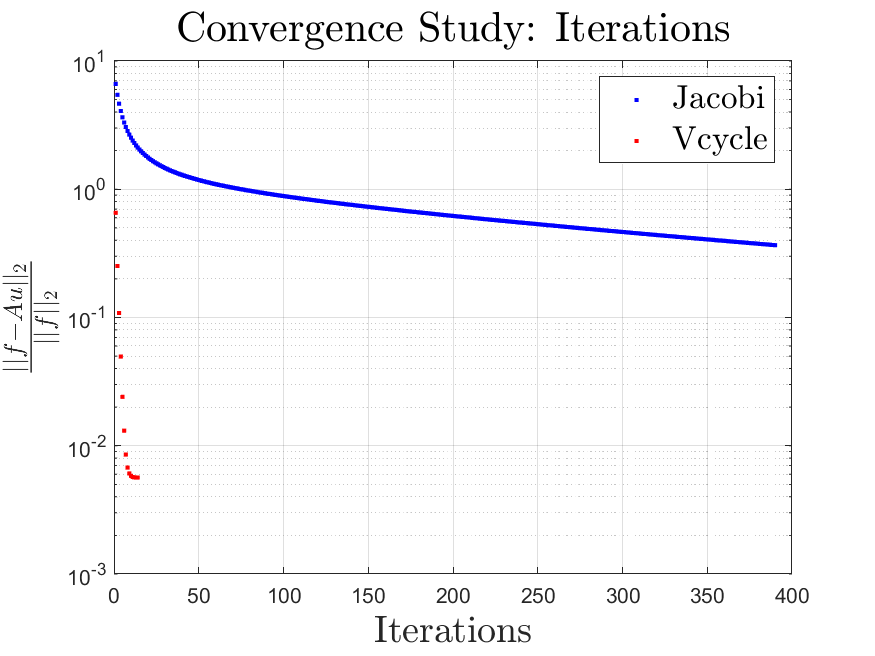
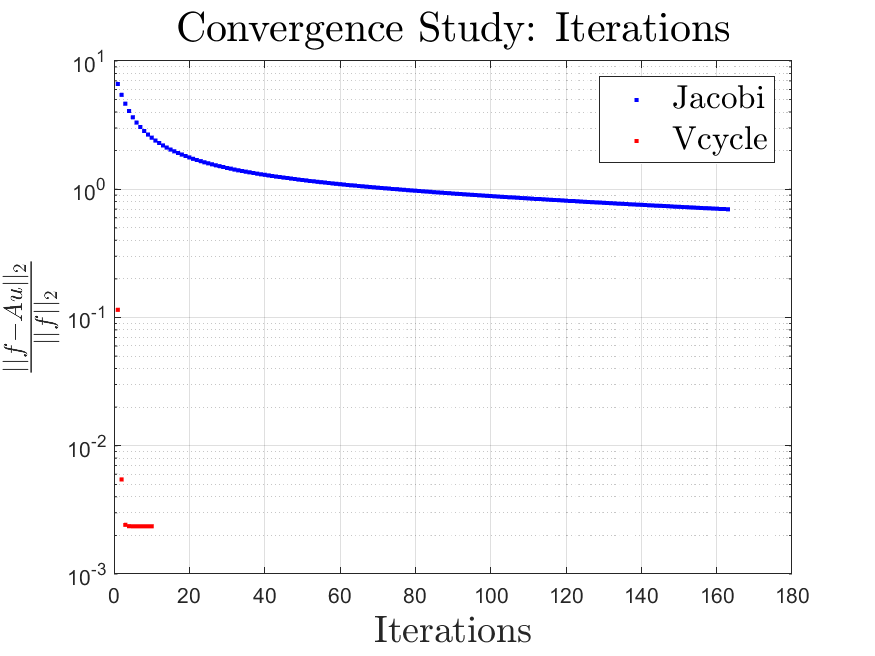
Improved matlab drivers

diff --git a/matlab/mixed_3d/driver.m b/matlab/mixed_3d/driver.m
@@ -7,8 +7,6 @@
 % dimension. This is only for easing the implementation of the
 % interpolation and restriction operations.
 %
-% Dirichlet boundary conditions are imposed on all boundary surfaces.
-%
 % Author: Anton Rydahl
 % Richard Petersens Plads, bygn. 324 2800 Kgs. Lyngby
 % email: rydahlanton@gmail.com
@@ -16,22 +14,8 @@
 
 clear all; close all; clc;
 %%
-% Frequencies for test function
-kx = 3;
-ky = 2;
-kz = 3.56;
-
-% Test function
-ufun = @(x,y,z)(sin(kx*x).*sin(ky*y).*sin(kz*z));
-
-% x derivative
-dxfun = @(x,y,z)(kx*cos(kx*x).*sin(ky*y).*sin(kz*z));
-
-% y derivative
-dyfun = @(x,y,z)(ky*sin(kx*x).*cos(ky*y).*sin(kz*z));
-
-% Laplacian of the test function
-ffun = @(x,y,z)(-(kx^2+ky^2+kz^2)*sin(kx*x).*sin(ky*y).*sin(kz*z));
+% Test problem
+[ufun,ffun,dxfun,dyfun] = problem_definition();
 
 % Domain offsets from origo
 x0 = -0.71;
@@ -48,74 +32,40 @@ l = 5;
 n = [5, 5, 5];
 assert(sum(mod(n,2) == 1) == 3,"Number of elements on coarsest grid must be odd")
 
-% number of cells in each dimension
-N = 2^l*(n-1)+1;
-
 % Number of smoothings per grids
 nsmooth = 20;
 
 % Maximal number of iterations
 max_iter = 2000;
-max_time = 60; % seconds
+max_time = 20; % seconds
 
 % Tolerance
 tol = 100*eps;
 
-% Axes
-x = linspace(x0,x0+len,N(1));
-y = linspace(y0,y0+len*(N(2)-1)/(N(1)-1),N(2));
-z = linspace(z0,z0+len*(N(3)-1)/(N(1)-1),N(3));
-
-% Creating mesh grid
-[X,Y,Z] = ndgrid(x',y',z');
-
-% The uniform grid spacing is given by
-h = x(2)-x(1);
-
-% Initializing the Dirichlet boaundary conditions
-u = ufun(X,Y,Z);
-u(1:end,1:end,2:end-1) = zeros(N(1),N(2),N(3)-2);
-
-
-% Intializing the right hand side
-f = ffun(X,Y,Z);
-
-% Neumann conditions
-% Western boundary
-gx1 = dxfun(X(1,:,:),Y(1,:,:),Z(1,:,:));
-
-% Eastern boundary
-gxn = dxfun(X(end,:,:),Y(end,:,:),Z(end,:,:));
-
-% Southern boundary
-gy1 = dyfun(X(:,1,:),Y(:,1,:),Z(:,1,:));
-
-% Northern boundary
-gyn = dyfun(X(:,end,:),Y(:,end,:),Z(:,end,:));
-
-% Computing the true solution in order to compare results
-utrue = ufun(X,Y,Z);
+% Initializing the domain and the test problem
+[X,Y,Z,gx1,gxn,gy1,gyn,u,f,utrue,h,N] = ...
+    get_domain(n,l,len,x0,y0,z0,ufun,ffun,dxfun,dyfun);
 
 %%
 if prod(N) < 25000
-A = system_matrix(N);
-[L,U,p] = lu(A,'vector');
-usolve = exact(u,f,L,U,p,h,gx1,gxn,gy1,gyn);
-
-idx = round(N(3)/2);
-figure(1)
-subplot(1,3,1)
-surf(X(:,:,idx),Y(:,:,idx),utrue(:,:,idx))
-xlabel('x')
-ylabel('y')
-subplot(1,3,2)
-surf(X(:,:,idx),Y(:,:,idx),usolve(:,:,idx))
-xlabel('x')
-ylabel('y')
-subplot(1,3,3)
-surf(X(:,:,idx),Y(:,:,idx),utrue(:,:,idx)-usolve(:,:,idx))
-xlabel('x')
-ylabel('y')
+    A = system_matrix(N);
+    [L,U,p] = lu(A,'vector');
+    usolve = exact(u,f,L,U,p,h,gx1,gxn,gy1,gyn);
+    
+    idx = round(N(3)/2);
+    figure(1)
+    subplot(1,3,1)
+    surf(X(:,:,idx),Y(:,:,idx),utrue(:,:,idx))
+    xlabel('x')
+    ylabel('y')
+    subplot(1,3,2)
+    surf(X(:,:,idx),Y(:,:,idx),usolve(:,:,idx))
+    xlabel('x')
+    ylabel('y')
+    subplot(1,3,3)
+    surf(X(:,:,idx),Y(:,:,idx),utrue(:,:,idx)-usolve(:,:,idx))
+    xlabel('x')
+    ylabel('y')
 end
 
 %% Jacobi solver
@@ -141,30 +91,13 @@ for i=1:max_iter
 end
 
 %% Multigrid solver
-err_vcycle = zeros(max_iter,1);
 u_vcycle = zeros(size(u))+u;
-t_vcycle = zeros(max_iter,1);
+maxiter = 10;
 
-% Precomputing LU  factorization for coarsest grid
-A = system_matrix(n);
-[L,U,p] = lu(A,'vector');
-
-start = tic;
-figure(1)
-for i=1:max_iter
-    surf(X(:,:,5),Y(:,:,5),utrue(:,:,end-1)-u_vcycle(:,:,end-1))
-    u_vcycle = Vcycle2(u_vcycle,f,nsmooth,h,n,L,U,p,gx1,gxn,gy1,gyn);
-    r = residual(u_vcycle,f,h,gx1,gxn,gy1,gyn);
-    err_vcycle(i) = norm(reshape(r,[],1),2)/norm(reshape(f,[],1),2);%max(max(abs(u_vcycle-utrue)));
-    t_vcycle(i) = toc(start);
-    disp(find(r == max(max(max(r)))))
-    disp(strcat(['Vcycle iteration ',num2str(i),': Residual: ',num2str(err_vcycle(i))]))
-    if (err_vcycle(i) < tol) || (t_vcycle(i) > max_time)
-        err_vcycle = err_vcycle(1:i);
-        t_vcycle = t_vcycle(1:i);
-        break;
-    end
-end
+% Calling the Vcycle solver which uses a LU factorization on the coarsest
+% level
+[u_vcycle,t_vcycle,err_vcycle,relres] = ...
+    multigrid_solver(u_vcycle,f,utrue,nsmooth,h,n,gx1,gxn,gy1,gyn,maxiter);
 
 %% Plot of some slice of the solution
 
@@ -178,14 +111,15 @@ xlabel('$x$','interpreter','latex','fontsize',16)
 ylabel('$y$','interpreter','latex','fontsize',16)
 view([0 0 90])
 colorbar
+% Exact solution can only be computed for small problems in reasonable time
 if prod(N) < 25000
-subplot(2,2,2)
-surf(X(:,:,plotidx),Y(:,:,plotidx),usolve(:,:,plotidx))
-title("LU Solution")
-xlabel('$x$','interpreter','latex','fontsize',16)
-ylabel('$y$','interpreter','latex','fontsize',16)
-view([0 0 90])
-colorbar
+    subplot(2,2,2)
+    surf(X(:,:,plotidx),Y(:,:,plotidx),usolve(:,:,plotidx))
+    title("LU Solution")
+    xlabel('$x$','interpreter','latex','fontsize',16)
+    ylabel('$y$','interpreter','latex','fontsize',16)
+    view([0 0 90])
+    colorbar
 end
 subplot(2,2,3)
 surf(X(:,:,plotidx),Y(:,:,plotidx),u_jac(:,:,plotidx))

diff --git a/matlab/mixed_3d/convergence.m b/matlab/mixed_3d/convergence.m
@@ -30,12 +30,10 @@ assert(sum(mod(n,2) == 1) == 3,"Number of elements on coarsest grid must be odd"
 err_vec = [];
 h_vec = [];
 
-l = 4;
 for l=3:6
-    %len = 0.7*len;
     [X,Y,Z,gx1,gxn,gy1,gyn,u,f,utrue,h,N] = get_domain(n,l,len,x0,y0,z0,ufun,ffun,dxfun,dyfun);
 
-    %% Calling multigrid solver
+    % Calling multigrid solver
     [u,t,abse,relres] = multigrid_solver(u,f,utrue,nsmooth,h,n,gx1,gxn,gy1,gyn,max_iter);
 
     err_vec = [err_vec;abse(end)];
@@ -46,11 +44,14 @@ end
 [alpha,beta] = ols_log_fit(err_vec(2:end),h_vec(2:end));
 
 figure(1)
-loglog(h_vec,err_vec,'b*-','DisplayName',strcat(['Abs Err $O(h^{',num2str(beta),'})$']))
+loglog(h_vec,err_vec,'b*-','DisplayName',...
+    strcat(['Abs Err $O(h^{',num2str(beta),'})$']),'linewidth',2)
 hold on
-loglog(h_vec,12*h_vec.^2,'k--','DisplayName','$\mathcal{O}(h^2)$')
+loglog(h_vec,12*h_vec.^2,'k--',...
+    'DisplayName','$\mathcal{O}(h^2)$','linewidth',2)
 hold off
 grid()
 legend('interpreter','latex','fontsize',14,'location','nw')
 xlabel('$h$','interpreter','latex','fontsize',18)
 ylabel('Absolute Error','interpreter','latex','fontsize',18)
+saveas(gcf,'./figures/mg_convergence.png')

diff --git a/matlab/mixed_3d/system_matrix_convergence.m b/matlab/mixed_3d/system_matrix_convergence.m
@@ -44,15 +44,19 @@ for l=1:3
     disp(strcat(['Finished iteration ',num2str(l)]))
 end
 %%
-[alpha,beta] = ols_log_fit(abse,h_vec)
+[alpha,beta] = ols_log_fit(abse,h_vec);
 
 figure(1)
 %loglog(h_vec,relres,'DisplayName','Relative Residual')
 %hold on
-loglog(h_vec,abse,'DisplayName',strcat(['Abs Err $O(h^{',num2str(beta),'})$']))
+loglog(h_vec,abse,'b*-','DisplayName',...
+    strcat(['Abs Err $O(h^{',num2str(beta),'})$']),'linewidth',2)
 hold on
-loglog(h_vec,h_vec.^2,'DisplayName','O(h)')
+loglog(h_vec,h_vec.^2,'k--','DisplayName',...
+   '$\mathcal{O}(h^2)$','linewidth',2)
 hold off
 grid()
-legend('interpreter','latex')
-
+legend('interpreter','latex','fontsize',14,'location','nw')
+xlabel('$h$','interpreter','latex','fontsize',18)
+ylabel('Absolute Error','interpreter','latex','fontsize',18)
+saveas(gcf,'./figures/sys_mat_convergence.png')

diff --git a/matlab/mixed_3d/problem_definition.m b/matlab/mixed_3d/problem_definition.m
@@ -16,9 +16,12 @@ function [ufun,ffun,dxfun,dyfun] = problem_definition()
 % email: rydahlanton@gmail.com
 % 18th of November 2022
     % Function periods
-    kx = 5.56;
-    ky = 19;
-    kz = -0.34;
+%     kx = 5.56;
+%     ky = 19;
+%     kz = -0.34;
+    kx = 3;
+    ky = 2;
+    kz = 3.56;
 
     % Test function
     ufun = @(x,y,z)(sin(kx*x).*sin(ky*y).*sin(kz*z));

diff --git a/matlab/mixed_3d/README.md b/matlab/mixed_3d/README.md
@@ -29,3 +29,13 @@ However, one V-cycle takes significantly longer than a Jacobi iteration. Therefo
   <img src="./figures/time.png" width="400" title="Convergence as function of time.">
 </p>
 In conclusion, the V-cycle does outperform the Jacobi method when measuring convergence per time which was also expected.
+
+## Verifying the Order of Accuracy
+From theory the scheme should be second order convergent, that is halving should result in a four times smaller maximal error. For the exact solver on the coarsest grid the empirical convergence is given in the following figure.
+<p align="center">
+  <img src="./figures/sys_mat_convergence.png" width="400" title="Convergence as function of grid spacing.">
+</p>
+For the whole multigrid algorithm the results are given by the following figure. The order is not exactly two so there might be an error in the implementation. Or perhaps it will be second order convergent for smaller grid spacings.
+<p align="center">
+  <img src="./figures/mg_convergence.png" width="400" title="Convergence as function of grid spacing.">
+</p>
